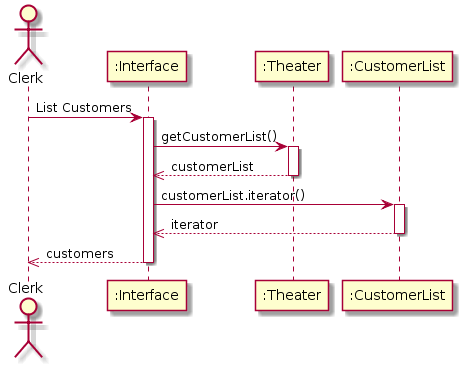
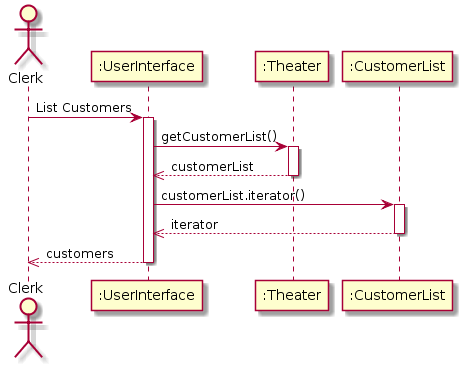
Rename Interface to UserInterface
As per assignment requirements, last page.

Changed region(s): [[0.1818, 0.7493, 0.4545, 0.8692], [0.1818, 0.1199, 0.4545, 0.2398]]

diff --git a/src/UserInterface.java b/src/UserInterface.java
@@ -1,4 +1,3 @@
-import java.util.Collection;
 import java.util.Date;
 import java.util.HashMap;
 import java.util.Map;
@@ -9,14 +8,14 @@ import java.util.Map;
  ** The various singleton hashmaps are never interacted with directly; instead, their instances are always returned through the Theater façade. This is done to lower coupling.
  ** Classes that duplicate functionality have that functionality implemented in generic superclasses as much as possible. This is done to maximise cohesion and reduce bugs (if one class has a bug, the others will as well, making detection easier).
  */
-public class Interface {
+public class UserInterface {
     /**
      * A Map of callable commands that are supported by the interface, keyed by the command used to invoke them.
      */
     static final Map<Integer, Runnable> commandMap = new HashMap<Integer, Runnable>();
 
     /**
-     * A map of descriptions for {@link Interface#commandMap}.
+     * A map of descriptions for {@link UserInterface#commandMap}.
      */
     static final Map<Integer, String> helpMap = new HashMap<Integer, String>();
 
@@ -94,7 +93,7 @@ public class Interface {
 
     public static void main(String args[]) {
         /* If we have saved data, prompt to load it. */
-        if (Theater.hasData() && InterfacePrompts.promptYesOrNo("Would you like to load available application data before starting? ")) {
+        if (Theater.hasData() && UserInterfacePrompts.promptYesOrNo("Would you like to load available application data before starting? ")) {
             Theater.retrieveData();
         }
 
@@ -102,7 +101,7 @@ public class Interface {
 
         /* Loop until exit command is entered. Process other commands as entered. */
         int commandNumber;
-        while ((commandNumber = InterfacePrompts.promptIntRange("Make a selection: ", 0, commandMap.values().size() - 1)) != 0) {
+        while ((commandNumber = UserInterfacePrompts.promptIntRange("Make a selection: ", 0, commandMap.values().size() - 1)) != 0) {
             commandMap.get(commandNumber).run();
         }
 
@@ -118,9 +117,9 @@ public class Interface {
      */
     public static void addClient() {
         // Inputs
-        String name = InterfacePrompts.promptLine("Client name? ");
-        String address = InterfacePrompts.promptLine("Client address? ");
-        long phone = InterfacePrompts.promptPhone("Phone number? ");
+        String name = UserInterfacePrompts.promptLine("Client name? ");
+        String address = UserInterfacePrompts.promptLine("Client address? ");
+        long phone = UserInterfacePrompts.promptPhone("Phone number? ");
 
         // Add New Account Object to Client List
         Theater.getClientList().addAccount(new Client(name, address, phone));
@@ -133,7 +132,7 @@ public class Interface {
      * @author Joseph T. Parsons
      */
     public static void removeClient() {
-        int id = InterfacePrompts.promptInt("Client ID? ");
+        int id = UserInterfacePrompts.promptInt("Client ID? ");
 
         if (Theater.getClientList().removeAccount(id)) {
             System.out.println("The client was removed.");
@@ -162,13 +161,13 @@ public class Interface {
      */
     public static void addCustomer()  {
     	 // Inputs
-        String name = InterfacePrompts.promptLine("Customer name? ");
-        String address = InterfacePrompts.promptLine("Customer address? ");
-        long phone = InterfacePrompts.promptPhone("Phone number? ");
+        String name = UserInterfacePrompts.promptLine("Customer name? ");
+        String address = UserInterfacePrompts.promptLine("Customer address? ");
+        long phone = UserInterfacePrompts.promptPhone("Phone number? ");
 
-        CreditCard creditCard = InterfacePrompts.promptCreditCard("Credit card number? ", "Credit card expiration (MMyyyy)? ", "This card is expired, please enter in a new credit card.");
+        CreditCard creditCard = UserInterfacePrompts.promptCreditCard("Credit card number? ", "Credit card expiration (MMyyyy)? ", "This card is expired, please enter in a new credit card.");
         
-     // Add New Account Object to Customer List
+        // Add New Account Object to Customer List
         Theater.getCustomerList().addAccount(new Customer(name, address, phone, creditCard));
     }
 
@@ -179,8 +178,8 @@ public class Interface {
 
 
     public static void addCreditCard() {
-        int id = InterfacePrompts.promptInt("Customer ID? ");
-        CreditCard creditCard = InterfacePrompts.promptCreditCard("Credit card number? ", "Credit card expiration (MMyyyy)? ", "This card is expired, please enter in a new credit card.");
+        int id = UserInterfacePrompts.promptInt("Customer ID? ");
+        CreditCard creditCard = UserInterfacePrompts.promptCreditCard("Credit card number? ", "Credit card expiration (MMyyyy)? ", "This card is expired, please enter in a new credit card.");
            
            
            // Add New Credit Card object to the specified Customer
@@ -212,11 +211,11 @@ public class Interface {
      *@author Cory
      */
     public static void addShow() {
-        int id = (int) InterfacePrompts.promptInt("Client ID? ");
+        int id = (int) UserInterfacePrompts.promptInt("Client ID? ");
         if (Theater.getInstance().getClientList().validateAccount(id)) {
-            String name = InterfacePrompts.promptLine("Show name? ");
-            Date startDate = InterfacePrompts.promptShowDate("Start of Show (MM/DD/yyyy)? "); 
-            Date endDate = InterfacePrompts.promptShowDate("End of Show (MM/DD/yyyy)? "); 
+            String name = UserInterfacePrompts.promptLine("Show name? ");
+            Date startDate = UserInterfacePrompts.promptShowDate("Start of Show (MM/DD/yyyy)? ");
+            Date endDate = UserInterfacePrompts.promptShowDate("End of Show (MM/DD/yyyy)? ");
             // Add New Show Object to ShowList
             if (startDate.before(endDate)) {
 	            if (Theater.getShowList().validShowDate(startDate, endDate)){

diff --git a/src/UserInterfacePrompts.java b/src/UserInterfacePrompts.java
@@ -5,7 +5,7 @@ import java.util.Scanner;
 /**
  * Created by joseph on 12/06/17.
  */
-public class InterfacePrompts {
+public class UserInterfacePrompts {
     /**
      * Prompts the user for an integer.
      *
@@ -184,13 +184,13 @@ public class InterfacePrompts {
 
 
     public static CreditCard promptCreditCard(String promptTextForNumber, String promptTextForExpiry, String expiredMessage) {
-        long creditCardNo = InterfacePrompts.promptCreditCardNumber(promptTextForNumber);
-        Date expiryDate = InterfacePrompts.promptCreditCardExpiry(promptTextForExpiry);
+        long creditCardNo = UserInterfacePrompts.promptCreditCardNumber(promptTextForNumber);
+        Date expiryDate = UserInterfacePrompts.promptCreditCardExpiry(promptTextForExpiry);
 
         while (expiryDate.before(new Date())) { //compares the expiry date of the CC with the current date
             System.out.println(expiredMessage);
-            creditCardNo = InterfacePrompts.promptCreditCardNumber(promptTextForNumber);
-            expiryDate = InterfacePrompts.promptCreditCardExpiry(promptTextForExpiry);
+            creditCardNo = UserInterfacePrompts.promptCreditCardNumber(promptTextForNumber);
+            expiryDate = UserInterfacePrompts.promptCreditCardExpiry(promptTextForExpiry);
         }
 
         return new CreditCard(creditCardNo, expiryDate);
